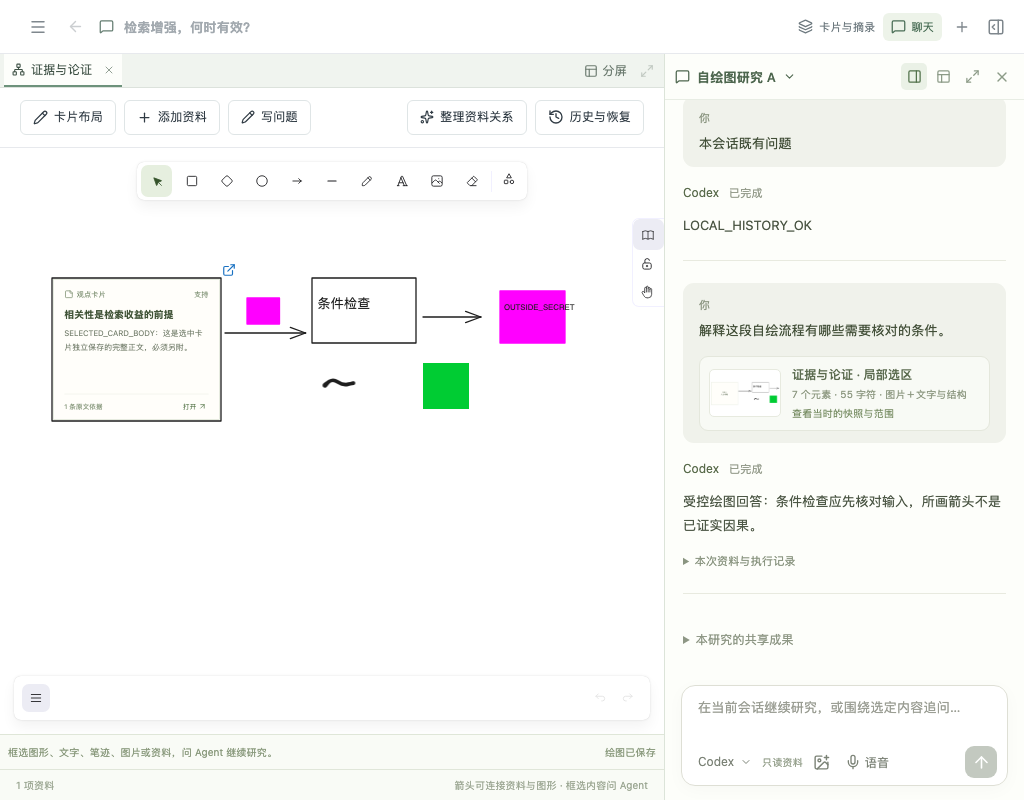
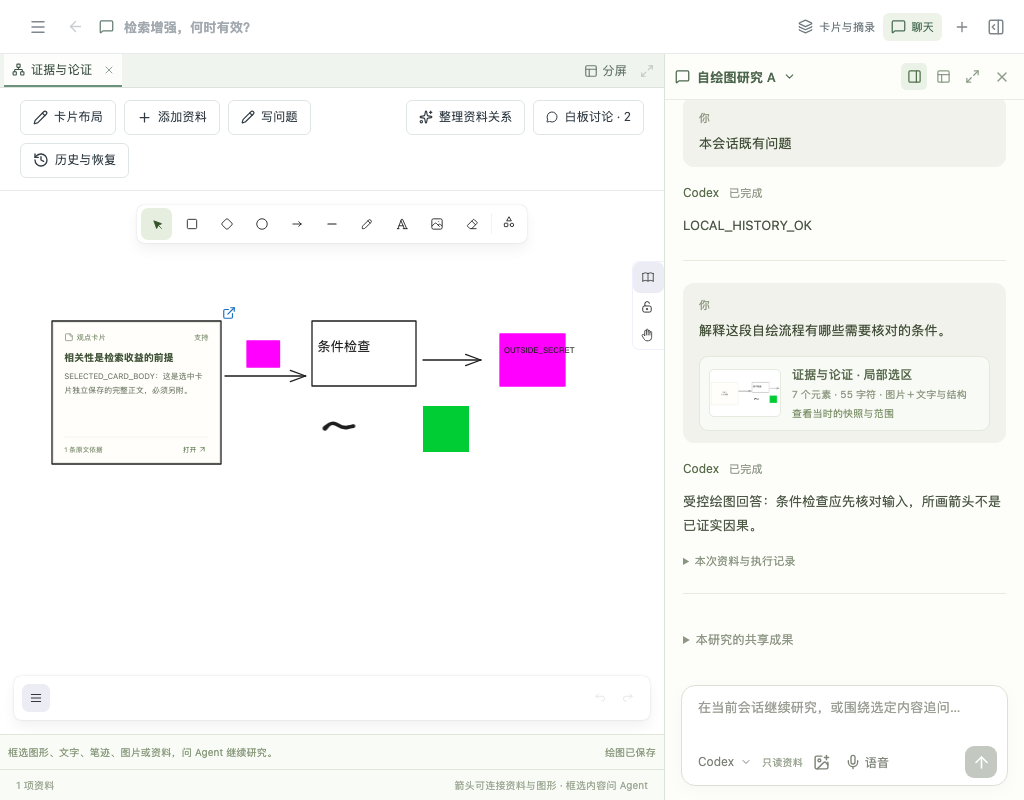
feat: 讨论移出主会话列表并在卡片和白板显示讨论数
左栏"会话"只列研究会话；卡片、白板讨论和未升级的原文旁问答收进"讨论（N）"分组，
按卡片、白板、各篇资料归组，当前会话是讨论或搜索时自动展开；标题下拉选择器同样分两段。
卡片布局中卡片底部、绘图模式选中卡片后的操作栏、白板工具栏显示问答轮数，点一下进入对应讨论。
抽出 researchConversationLists / anchoredConversations / openDiscussion 共用，并补单元测试与 e2e 断言。
agent-workbench 两例与 board-research BV08 在上一提交即失败，已记录，未在本次处理。

diff --git a/src/features/workbench/ResearchAgentWorkbench.tsx b/src/features/workbench/ResearchAgentWorkbench.tsx
@@ -1,11 +1,11 @@
 import { useEffect, useLayoutEffect, useRef, useState } from 'react';
 import { ArrowUp, ArrowUpRight, BookOpen, ChevronDown, ImagePlus, Plus, Search, Square, X } from 'lucide-react';
-import type { AIConnectionId, AIRequest } from '../../domain/types';
+import type { AIConnectionId, AIRequest, Conversation } from '../../domain/types';
 import type { ResearchAgentCapability } from '../../domain/research-agent';
 import { connectionLabel } from '../../services/agents';
 import { getActiveConversation, useWorkspace } from '../../services/workspace';
 import { stopAI } from '../../services/ai';
-import { applyResearchSuggestion, changeResearchAgent, clearResearchFocus, createResearchConversation, getResearchAgentCapabilities, isResearchConversation, keepResearchDraft, openResearchConversation, stopResearchRun, submitResearchRun, undoResearchSuggestion } from '../../services/research-agent';
+import { applyResearchSuggestion, changeResearchAgent, clearResearchFocus, createResearchConversation, discussionAnchor, getResearchAgentCapabilities, isResearchConversation, keepResearchDraft, openResearchConversation, researchConversationLists, stopResearchRun, submitResearchRun, undoResearchSuggestion } from '../../services/research-agent';
 import { hasDrawingText, removeDrawingQuestion, setDrawingQuestionMode } from '../../services/drawing-question';
 import { MarkdownContent } from '../ai/MarkdownContent';
 import { SourceRecommendations } from '../ai/SourceRecommendations';
@@ -170,17 +170,23 @@ export function ResearchAgentHistory({ researchId, compact = false, onSelected }
   const [error, setError] = useState('');
   const [query, setQuery] = useState('');
   const current = getActiveConversation(data, researchId);
-  const activityAt = (id: string) => { const item = data.conversations[id]; return item.updatedAt ?? item.requestIds.map(requestId => data.requests[requestId]).filter(Boolean).at(-1)?.createdAt ?? item.createdAt ?? ''; };
-  const conversations = Object.values(data.conversations).filter(item => item.researchId === researchId && !item.archived && (!item.inlineSource?.operation || item.inlineSource.operation === 'question') && (!query || titleOf(item.title).toLocaleLowerCase().includes(query.toLocaleLowerCase()))).sort((a, b) => activityAt(b.id).localeCompare(activityAt(a.id)));
+  const { main: conversations, discussions } = researchConversationLists(data, researchId, query);
+  const discussionCount = discussions.reduce((sum, group) => sum + group.items.length, 0);
+  const currentIsDiscussion = !!current && !!discussionAnchor(current);
+  const [showDiscussions, setShowDiscussions] = useState(currentIsDiscussion);
+  useEffect(() => { if (query || currentIsDiscussion) setShowDiscussions(true); }, [query, currentIsDiscussion]);
   function act(operation: () => void) { try { operation(); setError(''); onSelected?.(); } catch (problem) { setError((problem as Error).message); } }
   function select(id: string) {
     if (!compact) { openResearchConversation(researchId, id); return; }
     actions.selectConversation(researchId, id, { surface: 'workbench' });
     actions.updateData(next => { next.sessions[researchId].panel.aiView = 'chat'; });
   }
-  return <section className={`research-agent-history ${compact ? 'is-compact' : ''}`} aria-label="研究会话列表"><div className="research-agent-history-heading"><h2>会话</h2><button aria-label="新建会话" title="新建会话" onClick={() => act(() => { createResearchConversation(researchId, current?.connectionId ?? 'codex', { navigate: !compact }); if (compact) actions.updateData(next => { next.sessions[researchId].panel.aiView = 'chat'; }); })}><Plus size={15}/>{!compact && '新建会话'}</button></div><label className="conversation-search"><Search size={13}/><input aria-label="搜索会话" value={query} onChange={event => setQuery(event.target.value)} placeholder="搜索会话"/></label>{error && <p className="research-agent-error" role="alert">{error}</p>}{!conversations.length && <p className="conversation-empty">{query ? '没有匹配的会话' : '新建会话，开始研究'}</p>}<div className="research-agent-conversation-list">{conversations.map(conversation => {
+  const row = (conversation: Conversation, label: string, kind: string) => {
     const running = conversation.requestIds.some(id => data.requests[id]?.status === 'generating');
     const active = conversation.id === current?.id;
-    return <button key={conversation.id} className={`research-agent-conversation-item ${running ? 'is-running' : ''}`} aria-label={`打开会话：${titleOf(conversation.title)}`} title={titleOf(conversation.title)} aria-current={active ? 'true' : undefined} onClick={() => act(() => select(conversation.id))}><span className="conversation-status-dot" aria-label={running ? '执行中' : active ? '当前会话' : undefined}/><span className="research-agent-conversation-item-title">{titleOf(conversation.title)}</span></button>;
-  })}</div></section>;
+    return <button key={conversation.id} className={`research-agent-conversation-item ${running ? 'is-running' : ''}`} aria-label={`${kind}：${label}`} title={label} aria-current={active ? 'true' : undefined} onClick={() => act(() => select(conversation.id))}><span className="conversation-status-dot" aria-label={running ? '执行中' : active ? '当前会话' : undefined}/><span className="research-agent-conversation-item-title">{label}</span></button>;
+  };
+  return <section className={`research-agent-history ${compact ? 'is-compact' : ''}`} aria-label="研究会话列表"><div className="research-agent-history-heading"><h2>会话</h2><button aria-label="新建会话" title="新建会话" onClick={() => act(() => { createResearchConversation(researchId, current?.connectionId ?? 'codex', { navigate: !compact }); if (compact) actions.updateData(next => { next.sessions[researchId].panel.aiView = 'chat'; }); })}><Plus size={15}/>{!compact && '新建会话'}</button></div><label className="conversation-search"><Search size={13}/><input aria-label="搜索会话" value={query} onChange={event => setQuery(event.target.value)} placeholder="搜索会话"/></label>{error && <p className="research-agent-error" role="alert">{error}</p>}{!conversations.length && !discussionCount && <p className="conversation-empty">{query ? '没有匹配的会话' : '新建会话，开始研究'}</p>}<div className="research-agent-conversation-list">{conversations.map(conversation => row(conversation, titleOf(conversation.title), '打开会话'))}</div>
+    {discussionCount > 0 && <details className="research-discussions" open={showDiscussions} onToggle={event => setShowDiscussions(event.currentTarget.open)}><summary>讨论（{discussionCount}）</summary><div className="research-agent-conversation-list" aria-label="卡片、白板与原文讨论">{discussions.map(group => <div key={group.label + group.items[0].conversation.id} role="group" aria-label={group.label}><div className="research-discussion-group" title={group.label}>{group.label}</div>{group.items.map(item => row(item.conversation, item.label, '打开讨论'))}</div>)}</div></details>}
+  </section>;
 }

diff --git a/src/features/board/BoardDrawing.tsx b/src/features/board/BoardDrawing.tsx
@@ -24,6 +24,7 @@ import {
 } from '../../services/drawing-storage';
 import { resourceExists, resourceTitle, uid, useWorkspace } from '../../services/workspace';
 import { attachDrawingQuestion, openDrawingConversation } from '../../services/drawing-question';
+import { DiscussionBadge } from './DiscussionBadge';
 import { BoardQuestionDialog, type DrawingQuestionSource } from './BoardQuestionDialog';
 import { BoardResearchActions } from './BoardResearchActions';
 import { drawingResearchSelection } from './board-research-selection';
@@ -453,7 +454,7 @@ export default function BoardDrawing({ boardId, onViewport }: { boardId: string;
       <div className="drawing-resource-kind">{document ? <FileText size={14} /> : <StickyNote size={14} />}{document ? hasFullText(document) ? 'PDF 论文' : '文献条目' : '观点卡片'}{item.group && <span>{item.group}</span>}</div>
       <h3>{resourceTitle(data, item.resourceRef)}</h3>
       {exists ? <p>{card?.body || (document ? `${document.authors}${document.year ? ` · ${document.year}` : ''}\n${hasFullText(document) ? `${document.pageCount} 页` : '全文未导入'}` : '')}</p> : <p className="drawing-resource-missing">资料已缺失，请移出此摆放或修复来源。</p>}
-      <footer><span>{card ? `${card.evidenceIds.length} 条原文依据` : hasFullText(document) ? '原文与引用保留在资料库' : '题录与摘要 · 全文未导入'}</span><button onClick={() => open(item)} aria-label={`在右侧打开：${resourceTitle(data, item.resourceRef)}`}>打开 <ArrowUpRight size={13} /></button></footer>
+      <footer><span>{card ? `${card.evidenceIds.length} 条原文依据` : hasFullText(document) ? '原文与引用保留在资料库' : '题录与摘要 · 全文未导入'}</span>{card && <DiscussionBadge researchId={board!.researchId} anchor={{ kind: 'card', id: card.id }} />}<button onClick={() => open(item)} aria-label={`在右侧打开：${resourceTitle(data, item.resourceRef)}`}>打开 <ArrowUpRight size={13} /></button></footer>
     </article>;
   }
 
@@ -532,7 +533,7 @@ export default function BoardDrawing({ boardId, onViewport }: { boardId: string;
     {drawingQuestionError && <div className="board-message has-error drawing-question-message" role="alert"><span>{drawingQuestionError}</span><button className="button" onClick={() => setDrawingQuestionError('')}>关闭</button></div>}
     {(error || save.status === 'error') && <div className="board-message has-error" role="alert"><span>{error || save.error}</span><button className="button" onClick={() => { setError(''); void flushBoardDrawings(boardId).then(() => releaseClosedEditor(boardId)).catch(problem => setError(problem instanceof Error ? problem.message : '保存失败，请重试。')); }}>重试保存</button></div>}
     <div className="drawing-statusbar">
-      {active ? <div className="drawing-resource-actions"><span>{resourceTitle(data, active.resourceRef)}</span><button className="button" onClick={() => open(active)}>右侧打开</button><button className="button" onClick={() => open(active, 'main')}>主区打开</button>{active.resourceRef.kind === 'card' && <button className="button" onClick={() => open(active, 'inspector', true)}>查看原文</button>}</div> : <span>{data.agentWorkbench !== false ? '框选图形、文字、笔迹、图片或资料，问 Agent 继续研究。' : researchSelection.unsupportedCount > 0 ? '图形、图片和笔迹不自动识别为问题；可用上方“写问题”补充。' : researchSelection.placementIds.length > 1 ? `已选 ${researchSelection.placementIds.length} 项资料，可核对后继续研究。` : '画笔、形状、文字和箭头可直接绘制；选择资料后可继续研究。'}</span>}
+      {active ? <div className="drawing-resource-actions"><span>{resourceTitle(data, active.resourceRef)}</span><button className="button" onClick={() => open(active)}>右侧打开</button><button className="button" onClick={() => open(active, 'main')}>主区打开</button>{active.resourceRef.kind === 'card' && <button className="button" onClick={() => open(active, 'inspector', true)}>查看原文</button>}{active.resourceRef.kind === 'card' && <DiscussionBadge researchId={board.researchId} anchor={{ kind: 'card', id: active.resourceRef.id }} className="button" label="讨论 · " />}</div> : <span>{data.agentWorkbench !== false ? '框选图形、文字、笔迹、图片或资料，问 Agent 继续研究。' : researchSelection.unsupportedCount > 0 ? '图形、图片和笔迹不自动识别为问题；可用上方“写问题”补充。' : researchSelection.placementIds.length > 1 ? `已选 ${researchSelection.placementIds.length} 项资料，可核对后继续研究。` : '画笔、形状、文字和箭头可直接绘制；选择资料后可继续研究。'}</span>}
       <span className={`drawing-save-status is-${save.status}`} role="status">{({ dirty: '绘图待保存', saving: '正在保存绘图…', saved: '绘图已保存', error: '绘图保存失败' })[save.status]}</span>
     </div>
     <BoardQuestionDialog boardId={boardId} open={questionOpen} onClose={() => setQuestionOpen(false)} drawingOrigin={questionSource} position={questionPosition.current} onCreated={id => {

diff --git a/src/features/workbench/ResearchConversationHost.tsx b/src/features/workbench/ResearchConversationHost.tsx
@@ -2,7 +2,7 @@ import { useEffect, useRef, useState, type CSSProperties } from 'react';
 import { ChevronDown, Maximize2, MessageSquare, PanelRight, PanelsTopLeft, Plus, Search, X } from 'lucide-react';
 import type { Session } from '../../domain/types';
 import { getActiveConversation, useWorkspace } from '../../services/workspace';
-import { createResearchConversation, isResearchConversation } from '../../services/research-agent';
+import { createResearchConversation, isResearchConversation, researchConversationLists } from '../../services/research-agent';
 import { AIPanel } from '../ai/AIPanel';
 import { ResearchAgentDock, ResearchAgentHome } from './ResearchAgentWorkbench';
 
@@ -59,7 +59,7 @@ export function ResearchConversationHost({ researchId, mode, onMode }: { researc
     window.addEventListener('resize', resize);
     return () => window.removeEventListener('resize', resize);
   }, [mode, researchId]);
-  const conversations = Object.values(data.conversations).filter(item => item.researchId === researchId && !item.archived && (!item.inlineSource?.operation || item.inlineSource.operation === 'question') && (!query || (item.title ?? '新会话').toLocaleLowerCase().includes(query.toLocaleLowerCase()))).sort((a, b) => (b.updatedAt ?? b.createdAt ?? '').localeCompare(a.updatedAt ?? a.createdAt ?? ''));
+  const { main: conversations, discussions } = researchConversationLists(data, researchId, query);
   return <section ref={host} className={`research-conversation-host chat-${mode}`} role="region" aria-label="当前会话" data-chat-mode={mode} hidden={mode === 'closed'} style={mode === 'float' && rectangle ? constrain(rectangle) as CSSProperties : undefined}
     onKeyDown={event => { if (event.key !== 'Escape') return; if (picker) { event.preventDefault(); event.stopPropagation(); setPicker(false); } else if (mode === 'float') { event.preventDefault(); event.stopPropagation(); onMode('closed'); } }}
     onPointerMove={event => {
@@ -86,7 +86,7 @@ export function ResearchConversationHost({ researchId, mode, onMode }: { researc
     }}>
       <button className="conversation-host-title" data-conversation-picker aria-label="选择会话" aria-expanded={picker} onClick={() => setPicker(!picker)}><MessageSquare size={15}/><span>{current?.title?.trim() || '新会话'}</span><ChevronDown size={13}/></button>
       <div className="conversation-host-controls"><button aria-label="侧边聊天" title="侧边聊天" aria-pressed={mode === 'side'} onClick={() => onMode('side')}><PanelRight size={15}/></button><button aria-label="浮窗聊天" title="浮窗聊天" aria-pressed={mode === 'float'} onClick={() => onMode('float')}><PanelsTopLeft size={15}/></button><button aria-label="展开聊天" title="展开聊天" aria-pressed={mode === 'main'} onClick={() => onMode('main')}><Maximize2 size={15}/></button><button aria-label="关闭聊天" title="关闭聊天" onClick={() => onMode('closed')}><X size={16}/></button></div>
-      {picker && <div className="conversation-host-picker" role="dialog" aria-label="选择会话"><label className="conversation-search"><Search size={14}/><input aria-label="查找会话" value={query} onChange={event => setQuery(event.target.value)} autoFocus placeholder="搜索会话"/></label><button className="conversation-new" onClick={create}><Plus size={15}/>开始新会话</button><div>{conversations.map(item => <button key={item.id} className="conversation-picker-row" aria-current={item.id === current?.id ? 'true' : undefined} onClick={() => select(item.id)}>{item.title?.trim() || '新会话'}</button>)}{!conversations.length && <p className="conversation-empty">没有匹配的会话</p>}</div></div>}
+      {picker && <div className="conversation-host-picker" role="dialog" aria-label="选择会话"><label className="conversation-search"><Search size={14}/><input aria-label="查找会话" value={query} onChange={event => setQuery(event.target.value)} autoFocus placeholder="搜索会话"/></label><button className="conversation-new" onClick={create}><Plus size={15}/>开始新会话</button><div>{conversations.map(item => <button key={item.id} className="conversation-picker-row" aria-current={item.id === current?.id ? 'true' : undefined} onClick={() => select(item.id)}>{item.title?.trim() || '新会话'}</button>)}{discussions.length > 0 && <p className="conversation-picker-section">讨论</p>}{discussions.flatMap(group => group.items.map(({ conversation, label }) => <button key={conversation.id} className="conversation-picker-row" title={`${group.label} · ${label}`} aria-current={conversation.id === current?.id ? 'true' : undefined} onClick={() => select(conversation.id)}>{group.label} · {label}</button>))}{!conversations.length && !discussions.length && <p className="conversation-empty">没有匹配的会话</p>}</div></div>}
     </header>
     {mode === 'side' && <div className="resize-handle" role="separator" aria-label="调整聊天宽度" aria-orientation="vertical" aria-valuemin={320} aria-valuenow={data.panelWidth} title="拖动调整宽度，双击恢复默认宽度" tabIndex={0}
       onDoubleClick={() => resizeSide(360)}

diff --git a/src/services/research-agent.ts b/src/services/research-agent.ts
@@ -94,6 +94,50 @@ export function isResearchConversation(data: WorkspaceData, conversation: Conver
     && !conversation.requestIds.some(id => data.requests[id] && !data.requests[id].researchRun);
 }
 
+export type DiscussionAnchor = NonNullable<Conversation['anchor']> | { kind: 'document'; id: string };
+/** A discussion hangs on a card, board or PDF passage; anything else is a research conversation. */
+export function discussionAnchor(conversation: Conversation): DiscussionAnchor | undefined {
+  if (conversation.anchor) return conversation.anchor;
+  if (conversation.inlineSource && !conversation.inlineSource.promoted) return { kind: 'document', id: conversation.inlineSource.documentId };
+}
+const activityAt = (data: WorkspaceData, item: Conversation) => item.updatedAt ?? item.requestIds.map(id => data.requests[id]).filter(Boolean).at(-1)?.createdAt ?? item.createdAt ?? '';
+export function anchoredConversations(data: WorkspaceData, researchId: string, anchor: NonNullable<Conversation['anchor']>) {
+  return Object.values(data.conversations)
+    .filter(item => item.researchId === researchId && !item.archived && item.anchor?.kind === anchor.kind && item.anchor.id === anchor.id)
+    .sort((a, b) => activityAt(data, b).localeCompare(activityAt(data, a)));
+}
+/** Research conversations stay in the main list; discussions are grouped by the object they hang on. */
+export function researchConversationLists(data: WorkspaceData, researchId: string, query = '') {
+  const needle = query.trim().toLocaleLowerCase(), matches = (...texts: string[]) => !needle || texts.some(text => text.toLocaleLowerCase().includes(needle));
+  const main: Conversation[] = [], groups = new Map<string, { label: string; items: { conversation: Conversation; label: string }[] }>();
+  const listed = Object.values(data.conversations)
+    .filter(item => item.researchId === researchId && !item.archived && (item.inlineSource?.operation ?? 'question') === 'question')
+    .sort((a, b) => activityAt(data, b).localeCompare(activityAt(data, a)));
+  for (const conversation of listed) {
+    const anchor = discussionAnchor(conversation), title = conversation.title?.trim() || '新会话';
+    if (!anchor) { if (matches(title)) main.push(conversation); continue; }
+    const quote = conversation.inlineSource && data.evidence[conversation.inlineSource.evidenceId]?.quote.trim();
+    const label = anchor.kind === 'card' ? data.cards[anchor.id]?.title ?? '已移除的卡片'
+      : anchor.kind === 'board' ? data.boards[anchor.id]?.title ?? '已移除的白板'
+      : `第 ${conversation.inlineSource!.pageIndex + 1} 页 · ${quote ? quote.slice(0, 40) : '区域'}`;
+    const group = anchor.kind === 'card' ? '卡片' : anchor.kind === 'board' ? '白板' : data.documents[anchor.id]?.title ?? '已移除的资料';
+    if (!matches(label, title, group)) continue;
+    const key = anchor.kind === 'document' ? `document:${anchor.id}` : anchor.kind;
+    if (!groups.has(key)) groups.set(key, { label: group, items: [] });
+    groups.get(key)!.items.push({ conversation, label });
+  }
+  return { main, discussions: [...groups.values()] };
+}
+/** Show a conversation in the chat host without moving the main area. */
+export function openDiscussion(researchId: string, conversationId: string) {
+  workspace.selectConversation(researchId, conversationId, { surface: 'workbench' });
+  workspace.updateData(next => {
+    const session = next.sessions[researchId];
+    session.panel.aiView = 'chat';
+    if (session.agentChat?.mode !== 'float') session.agentChat = { ...session.agentChat, mode: 'side' };
+  });
+}
+
 export function openResearchConversation(researchId: string, conversationId: string, options: { navigate?: boolean } = {}) {
   workspace.selectConversation(researchId, conversationId, { surface: 'workbench' });
   if (options.navigate !== false) workspace.openResearchView(researchId, 'home');

diff --git a/src/features/board/BoardView.tsx b/src/features/board/BoardView.tsx
@@ -43,6 +43,7 @@ import { layoutBoardTree } from '../../domain/board-layout';
 import { addBoardCard, moveBoardBranch, removeBoardPlacements, reorderBoardPlacement, setBoardLayout } from '../../services/board-structure';
 import { BoardQuestionDialog } from './BoardQuestionDialog';
 import { BoardResearchActions } from './BoardResearchActions';
+import { DiscussionBadge } from './DiscussionBadge';
 import './board.css';
 
 const BoardDrawing = lazy(() => import('./BoardDrawing'));
@@ -591,6 +592,7 @@ export function BoardView({ boardId }: { boardId: string }) {
           });
           actions.setPanel('ai');
         }}><Sparkles size={14} />{drawingMode ? '整理资料关系' : '让 Agent 整理'}</button>
+        <DiscussionBadge researchId={board.researchId} anchor={{ kind: 'board', id: boardId }} className="button" label="白板讨论 · " />
         <button className="button" aria-label="白板版本历史" title="查看历史并恢复布局，保留共享卡片正文" aria-expanded={historyOpen} onClick={() => setHistoryOpen(!historyOpen)}><History size={16} />历史与恢复</button>
         {!drawingMode && <><button
           className="icon-button"
@@ -934,6 +936,7 @@ export function BoardView({ boardId }: { boardId: string }) {
                     <div className="board-tree-footer"><span className={card?.needsReview ? 'needs-review' : ''}>{card?.needsReview ? '待核查' : document ? '原始文献' : card?.evidenceIds.length ? `${card.evidenceIds.length} 条来源` : '未关联原文'}</span><div className="board-node-actions">
                       <button className="board-source-button" aria-label={`编辑内容：${resourceTitle(data, ref)}`} onClick={event => { event.stopPropagation(); choose(item); inspect(item); }}>{document ? '详情' : '编辑'}</button>
                       <button className="board-source-button" aria-label={`查看卡片原文：${resourceTitle(data, ref)}`} disabled={!document && !card?.evidenceIds.length} title={!document && !card?.evidenceIds.length ? '未关联原文，可在卡片中补充依据' : '在右侧查看原文'} onClick={event => { event.stopPropagation(); document ? inspect(item) : source(item); }}>原文{(card?.evidenceIds.length ?? 0) > 1 ? ` · ${card!.evidenceIds.length}` : ''}</button>
+                      {card && <DiscussionBadge researchId={board.researchId} anchor={{ kind: 'card', id: card.id }} />}
                     </div></div>
                   </> : <>
                   <div className="board-node-header" title="拖动移动；Shift / Ctrl / ⌘ 点击多选后可整体拖动">
@@ -1007,6 +1010,7 @@ export function BoardView({ boardId }: { boardId: string }) {
                           <ArrowUpRight size={13} />
                           原文
                         </button>
+                        <DiscussionBadge researchId={board.researchId} anchor={{ kind: 'card', id: card.id }} />
                       </div>
                     )}
                     {document && (

diff --git a/tests/unit/conversation-lists.test.ts b/tests/unit/conversation-lists.test.ts
@@ -1,0 +1,25 @@
+import { describe, expect, it } from 'vitest';
+import { createSeed } from '../../src/data/seed';
+import { anchoredConversations, researchConversationLists } from '../../src/services/research-agent';
+import type { Conversation } from '../../src/domain/types';
+
+describe('会话归属：研究会话与对象讨论', () => {
+  it('卡片、白板讨论和未升级的原文旁问答移出主列表并按对象分组；升级后回到主列表', () => {
+    const data = createSeed(), evidence = Object.values(data.evidence)[0];
+    const add = (id: string, extra: Partial<Conversation>, updatedAt: string) => { data.conversations[id] = { id, researchId: 'research-a', contextIds: [], requestIds: [], title: id, updatedAt, ...extra }; };
+    add('card-thread', { anchor: { kind: 'card', id: 'card-a' } }, '2026-10-23T03:00:00Z');
+    add('board-thread', { anchor: { kind: 'board', id: 'board-a' } }, '2026-10-23T02:00:00Z');
+    add('passage', { inlineSource: { documentId: evidence.documentId, pageIndex: evidence.pageIndex, evidenceId: evidence.id, operation: 'question' } }, '2026-10-23T01:00:00Z');
+    add('translation', { inlineSource: { documentId: evidence.documentId, pageIndex: evidence.pageIndex, evidenceId: evidence.id, operation: 'translation' } }, '2026-10-23T04:00:00Z');
+    add('promoted', { inlineSource: { documentId: evidence.documentId, pageIndex: evidence.pageIndex, evidenceId: evidence.id, operation: 'question', promoted: true } }, '2026-10-23T05:00:00Z');
+    const { main, discussions } = researchConversationLists(data, 'research-a');
+    const ids = main.map(item => item.id);
+    expect(ids[0]).toBe('promoted');
+    expect(ids).not.toContain('card-thread'); expect(ids).not.toContain('board-thread'); expect(ids).not.toContain('passage'); expect(ids).not.toContain('translation');
+    expect(discussions.map(group => group.label)).toEqual(['卡片', '白板', data.documents[evidence.documentId].title]);
+    expect(discussions[0].items[0].label).toBe(data.cards['card-a'].title);
+    expect(discussions[2].items[0].label).toMatch(new RegExp(`^第 ${evidence.pageIndex + 1} 页 · `));
+    expect(researchConversationLists(data, 'research-a', data.boards['board-a'].title).discussions.map(group => group.label)).toEqual(['白板']);
+    expect(anchoredConversations(data, 'research-a', { kind: 'card', id: 'card-a' }).map(item => item.id)).toEqual(['card-thread']);
+  });
+});

diff --git a/src/services/drawing-question.ts b/src/services/drawing-question.ts
@@ -2,7 +2,7 @@ import type { DrawingSnapshot } from '../domain/types';
 import { drawingSnapshotContent, hasDrawingText, validateDrawingPng, validateDrawingQuestion } from '../domain/drawing-question';
 import { contentHash, getAsset, putAsset } from '../data/storage';
 import { getActiveConversation, uid, workspace } from './workspace';
-import { createResearchConversation, isResearchConversation } from './research-agent';
+import { anchoredConversations, createResearchConversation, isResearchConversation, openDiscussion } from './research-agent';
 
 export { hasDrawingText };
 
@@ -26,16 +26,10 @@ export function openDrawingConversation(researchId: string, boardId: string, sel
   const data = workspace.getState().data;
   const ref = selection.elementIds.length === 1 && selection.placementIds.length === 1 ? data.placements[selection.placementIds[0]]?.resourceRef : undefined;
   const anchor = ref?.kind === 'card' && data.cards[ref.id] ? { kind: 'card' as const, id: ref.id } : { kind: 'board' as const, id: boardId };
-  const existing = Object.values(data.conversations)
-    .filter(item => item.researchId === researchId && !item.archived && item.anchor?.kind === anchor.kind && item.anchor.id === anchor.id && isResearchConversation(data, item))
-    .sort((a, b) => (b.updatedAt ?? '').localeCompare(a.updatedAt ?? ''))[0];
+  const existing = anchoredConversations(data, researchId, anchor).find(item => isResearchConversation(data, item));
   const id = existing?.id ?? createResearchConversation(researchId, undefined, { navigate: false });
-  if (existing) workspace.selectConversation(researchId, id, { surface: 'workbench' });
-  workspace.updateData(next => {
-    if (!existing) Object.assign(next.conversations[id], { anchor, title: anchor.kind === 'card' ? `卡片：${next.cards[anchor.id].title}` : `白板：${next.boards[boardId].title}` });
-    const session = next.sessions[researchId];
-    if (session.agentChat?.mode !== 'float') session.agentChat = { ...session.agentChat, mode: 'side' };
-  });
+  if (!existing) workspace.updateData(next => { Object.assign(next.conversations[id], { anchor, title: anchor.kind === 'card' ? `卡片：${next.cards[anchor.id].title}` : `白板：${next.boards[boardId].title}` }); });
+  openDiscussion(researchId, id);
   return id;
 }
 

diff --git a/src/features/workbench/workbench.css b/src/features/workbench/workbench.css
@@ -153,7 +153,7 @@
 .conversation-search input { min-width: 0; width: 100%; padding: 0; border: 0; border-radius: 0; outline: 0; box-shadow: none; background: transparent; font-size: 11px; line-height: 1.6; color: #617555; }
 .conversation-search:focus-within { border-color: #a7b99b; }
 .conversation-empty { color: #94a18c; padding: 10px 3px; font-size: 11px; line-height: 1.7; }
-.research-agent-history.is-compact { height: auto; max-height: min(40dvh, 380px); overflow: visible; padding: 18px 0 5px; }
+.research-agent-history.is-compact { height: auto; overflow: visible; padding: 18px 0 5px; }
 .research-agent-history.is-compact .research-agent-history-heading { align-items: center; margin: 0 4px 8px; }
 .research-agent-history.is-compact .research-agent-history-heading h2 { margin: 0; font-size: 11px; color: #95a08e; font-weight: 500; }
 .research-agent-history.is-compact .research-agent-history-heading > button { background: transparent; border: 0; padding: 3px; }
@@ -163,6 +163,11 @@
 .research-agent-history .research-agent-conversation-item[aria-current="true"] { background: #e6eee1; }
 .research-agent-history .research-agent-conversation-item:hover { background: #edf3e8; }
 .research-agent-history .research-agent-conversation-item-title { display: block; white-space: nowrap; text-overflow: ellipsis; overflow: hidden; color: #71816a; font-size: 12px; line-height: 1.5; }
+.research-discussions { margin-top: 6px; }
+.research-discussions > summary { cursor: pointer; padding: 6px 9px; font-size: 11px; color: #95a08e; }
+.research-discussions > summary:hover { color: #6b7d62; }
+.research-discussions > .research-agent-conversation-list { max-height: 240px; overflow-y: auto; margin-top: 0; }
+.research-discussion-group { padding: 6px 9px 2px; font-size: 10px; color: #a5ae9c; white-space: nowrap; overflow: hidden; text-overflow: ellipsis; }
 .conversation-status-dot { width: 5px; height: 5px; flex: none; border-radius: 50%; background: #bfcab8; }
 .research-agent-conversation-item[aria-current="true"] .conversation-status-dot { background: #6b8b5d; }
 .research-agent-conversation-item.is-running .conversation-status-dot { background: #7f9f6f; animation: research-agent-pulse 1.4s ease-in-out infinite; }

diff --git a/src/shell/workbench-shell.css b/src/shell/workbench-shell.css
@@ -83,6 +83,7 @@
 .conversation-host-picker { position: absolute; top: calc(100% - 2px); left: 10px; right: 10px; z-index: 25; max-height: min(400px, 65vh); padding: 8px; overflow: auto; border: 1px solid #dce4d7; border-radius: 9px; box-shadow: 0 8px 30px #2d462427; background: #fff; }
 .conversation-host-picker > div { display: flex; flex-direction: column; gap: 2px; }
 .conversation-new { display: flex; align-items: center; gap: 8px; width: 100%; background: #f0f5eb; border: 0; border-radius: 5px; text-align: left; padding: 8px; color: #57734b; font-size: 12px; margin: 8px 0; }
+.conversation-picker-section { margin: 8px 8px 2px; font-size: 10px; color: #a5ae9c; }
 .conversation-picker-row { width: 100%; padding: 9px 8px; white-space: nowrap; text-overflow: ellipsis; overflow: hidden; text-align: left; background: transparent; border: 0; border-radius: 5px; font-size: 12px; color: #6a7960; }
 .conversation-picker-row:hover, .conversation-picker-row[aria-current="true"] { background: #edf3e8; color: #435d3d; }
 .conversation-host-resize { position: absolute; right: 2px; bottom: 2px; width: 18px; height: 18px; cursor: nwse-resize; background: linear-gradient(135deg, transparent 50%, #adbea1 50%, #adbea1 56%, transparent 56%, transparent 66%, #adbea1 66%, #adbea1 72%, transparent 72%); border: 0; border-radius: 0 0 10px 0; touch-action: none; }

diff --git a/src/features/board/DiscussionBadge.tsx b/src/features/board/DiscussionBadge.tsx
@@ -1,0 +1,20 @@
+import { MessageCircle } from 'lucide-react';
+import { useWorkspace } from '../../services/workspace';
+import { anchoredConversations, openDiscussion } from '../../services/research-agent';
+
+/** Rounds discussed on a card or board; one click opens the latest thread beside the work. */
+export function DiscussionBadge({ researchId, anchor, className = 'board-discussion-badge', label = '' }: {
+  researchId: string; anchor: { kind: 'card' | 'board'; id: string }; className?: string; label?: string;
+}) {
+  const { data } = useWorkspace();
+  if (data.agentWorkbench === false) return null;
+  const threads = anchoredConversations(data, researchId, anchor);
+  const rounds = threads.reduce((sum, item) => sum + item.requestIds.length, 0);
+  if (!rounds) return null;
+  const name = anchor.kind === 'card' ? '这张卡片' : '本白板';
+  return <button className={className} aria-label={`进入${name}的讨论（${rounds} 轮）`} title={`${name}的讨论，共 ${rounds} 轮问答`}
+    onPointerDown={event => event.stopPropagation()} onDoubleClick={event => event.stopPropagation()}
+    onClick={event => { event.stopPropagation(); openDiscussion(researchId, threads[0].id); }}>
+    <MessageCircle size={12} />{label}{rounds}
+  </button>;
+}

diff --git a/src/features/board/board.css b/src/features/board/board.css
@@ -507,3 +507,5 @@
 .is-tree .board-node.is-tree-root { border-left:4px solid #698d55; background:#eef4e7; }
 .is-tree .board-node.is-tree-root h3 { font-size:15px; font-weight:700; color:#345329; }
 .board-source-button:disabled { color:#a9b1a2; cursor:default; }
+.board-discussion-badge { display: inline-flex; align-items: center; gap: 3px; border: 0; border-radius: 10px; padding: 1px 7px; background: #eaf2e4; color: #52724b; font-size: 11px; line-height: 1.6; cursor: pointer; }
+.board-discussion-badge:hover { background: #dce9d3; }
